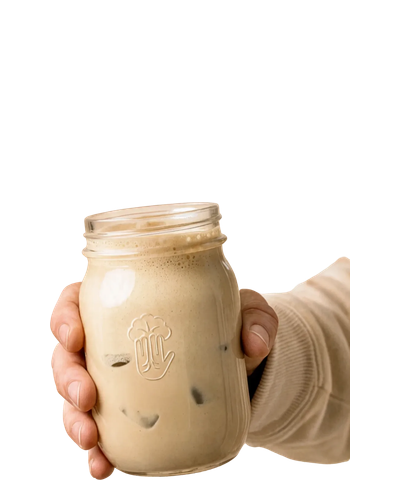
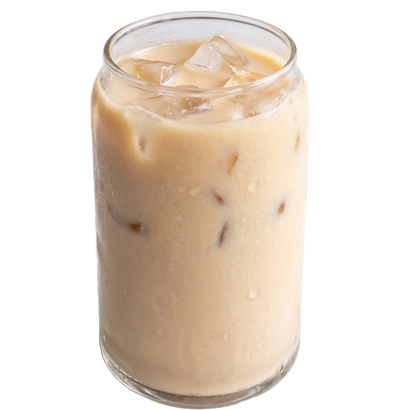
Post-purchase E1: Bernat's hot and iced drinks, background removed, same size
Claude-Session: https://claude.ai/code/session_01NhEtXPnfeCJfN73SqBkUZ5

diff --git a/email-ds/refine/pp1-e1.html b/email-ds/refine/pp1-e1.html
@@ -34,7 +34,7 @@ body{margin:0;background:#FFFFFF;padding:28px 0 60px}
     .step { padding:0 4px !important; }
     .step-t { font-size:14px !important; }
     .step-d { font-size:12px !important; line-height:17px !important; }
-    .drink-img { width:140px !important; height:168px !important; }
+    .drink-img { width:150px !important; height:154px !important; }
     .drink-text { font-size:12.5px !important; line-height:18px !important; }
     .know { display:block !important; width:100% !important; padding:0 0 12px 0 !important; }
     .btn { padding:18px 26px !important; font-size:15px !important; letter-spacing:1.2px !important; }
@@ -112,12 +112,12 @@ body{margin:0;background:#FFFFFF;padding:28px 0 60px}
 <tr><td class="pad-photo bg-table" bgcolor="#EBE5E7" style="background-color:#EBE5E7;padding:30px 30px 52px;">
 <table role="presentation" width="100%" cellpadding="0" cellspacing="0" border="0" style="table-layout:fixed;"><tr>
 <td class="drink" width="50%" align="center" valign="top" style="width:50%;padding:0 10px 0 0;font-family:'Montserrat','Helvetica Neue',Helvetica,Arial,sans-serif;">
-<img class="drink-img" src="../exports/klaviyo/pp1-e1/img/drink-hot.png" width="200" height="240" alt="A hot Mate Latte in a glass mug" style="display:block;margin:0 auto;width:200px;height:240px;border:0;">
+<img class="drink-img" src="../exports/klaviyo/pp1-e1/img/drink-hot.png" width="200" height="205" alt="A hot Mate Latte in a glass mug" style="display:block;margin:0 auto;width:200px;height:205px;border:0;">
 <div style="padding-top:16px;font-family:'Times New Roman',Times,Georgia,serif;font-size:26px;line-height:30px;font-weight:700;font-style:italic;color:#004D27;">Hot</div>
 <div class="drink-text" style="padding-top:8px;font-size:14px;line-height:21px;font-weight:500;color:#12331F;">Heat <span style="white-space:nowrap;">8oz of milk</span> or water, add <span style="white-space:nowrap;">2.5 tablespoons</span> and froth until smooth. Cozy and creamy.</div>
 </td>
 <td class="drink" width="50%" align="center" valign="top" style="width:50%;padding:0 0 0 10px;font-family:'Montserrat','Helvetica Neue',Helvetica,Arial,sans-serif;">
-<img class="drink-img" src="../exports/klaviyo/pp1-e1/img/drink-iced.png" width="200" height="240" alt="An iced Mate Latte in a tall glass" style="display:block;margin:0 auto;width:200px;height:240px;border:0;">
+<img class="drink-img" src="../exports/klaviyo/pp1-e1/img/drink-iced.png" width="200" height="205" alt="An iced Mate Latte in a tall glass" style="display:block;margin:0 auto;width:200px;height:205px;border:0;">
 <div style="padding-top:16px;font-family:'Times New Roman',Times,Georgia,serif;font-size:26px;line-height:30px;font-weight:700;font-style:italic;color:#004D27;">Iced</div>
 <div class="drink-text" style="padding-top:8px;font-size:14px;line-height:21px;font-weight:500;color:#12331F;">Mix <span style="white-space:nowrap;">2.5 tablespoons</span> into <span style="white-space:nowrap;">8oz of cold</span> milk or water, then pour it over ice. Cold and refreshing.</div>
 </td>
